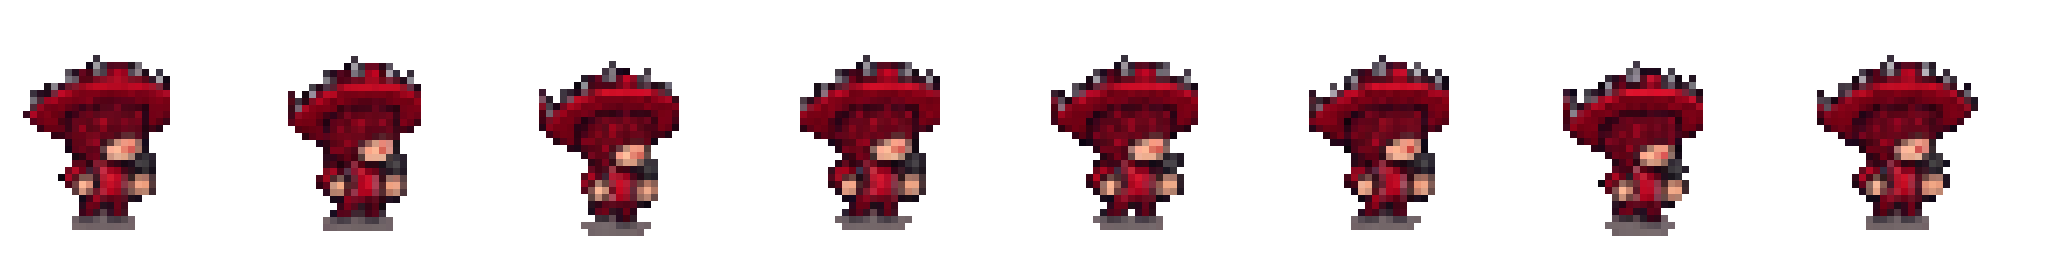
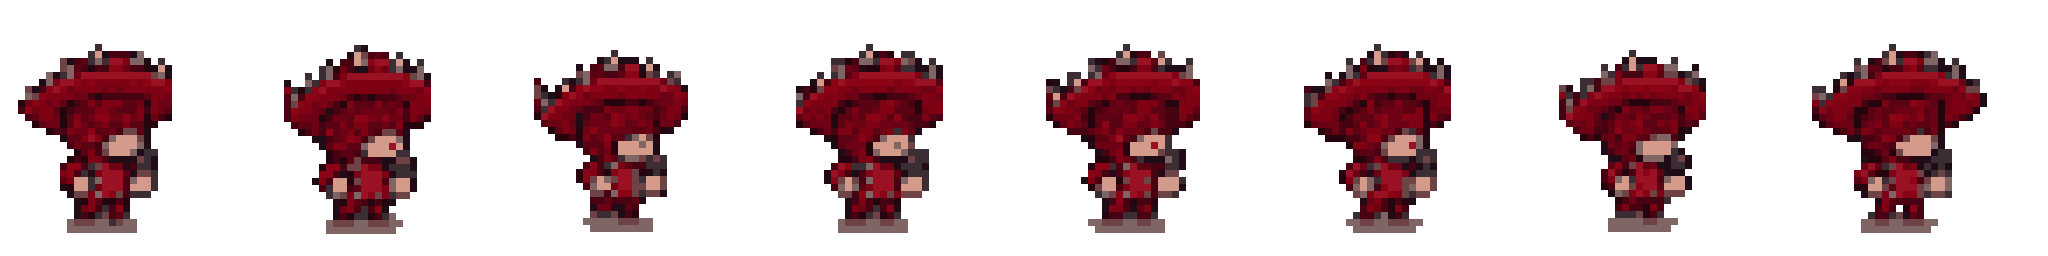
크림슨 디바 크기·도트 정리
Claude-Session: https://claude.ai/code/session_01CTycXSNtqEpKLb11niWLUo

diff --git a/tools/build_chars.py b/tools/build_chars.py
@@ -17,7 +17,7 @@ import build_sheets as bs
 
 REF_SIZE = 158  # 기본(blue) 캐릭터 idle의 덩치(면적 제곱근)
 # 실제 크기 비율: 기준(1.0) 대비 화면에 보이는 크기. 줄여도 도트 크기(DOT)는 그대로라서 그림 자체를 더 성긴 도트로 다시 찍는다
-SIZE = {"diva": 0.8, "dv2": 0.8, "chick": 0.38, "chicken": 0.5, "frog": 0.7, "shiba": 0.8, "labrador": 0.9, "pig": 0.9, "hippo": 0.8}
+SIZE = {"diva": 1.0, "dv2": 1.0, "chick": 0.38, "chicken": 0.5, "frog": 0.7, "shiba": 0.8, "labrador": 0.9, "pig": 0.9, "hippo": 0.8}
 DOT = 7  # 셀 안에서 도트 한 개의 크기(px). 파란티 등 기본 캐릭터의 도트 크기와 같다
 MOTIONS = {"idle": 4, "walk": 6, "run": 6, "attack": 6, "die": 6}  # 모션 → 프레임 수 (attack·die는 2줄 x 3칸)
 
@@ -110,6 +110,7 @@ def main(src: Path, out: Path):
             infos = []
             for f in frames:
                 try:
+                    if os.environ.get("FOOT"): raise SystemExit  # 그림자가 없거나 들쭉날쭉한 시트는 가장 아래 점을 발로 본다
                     infos.append(bs.shadow_info(f))
                 except SystemExit:  # 그림자가 없으면 발 위치로 대신함
                     al = f[..., 3] > 128
@@ -138,6 +139,9 @@ def main(src: Path, out: Path):
                     im = im.resize((max(1, round(im.width * sc)), max(1, round(im.height * sc))), Image.NEAREST)
                     sc_eff = sc
                 px, py = bs.ANCHOR[0] - round(cx * sc_eff), bs.ANCHOR[1] - round(by * sc_eff)
+                if py < 0 and os.environ.get("FOOT"):  # 팔을 번쩍 든 것처럼 키가 큰 프레임: 발이 잘리지 않게 이 프레임만 줄여 앵커에 맞춤
+                    k = (im.height + py) / im.height; nw = max(1, round(im.width * k)); im = im.resize((nw, im.height + py), Image.NEAREST)
+                    px, py = bs.ANCHOR[0] - round(cx * sc_eff * k), 0
                 px = min(max(px, 0), bs.CELL - im.width)  # 살짝 벗어난 건 옆으로 밀어 넣음 (쓰러진 자세 등)
                 py = max(py, 0)
                 cell = Image.new("RGBA", (bs.CELL, bs.CELL), (0, 0, 0, 0))

diff --git a/tools/pal_snap.py b/tools/pal_snap.py
@@ -1,0 +1,18 @@
+"""한 캐릭터의 모든 시트 색을 공통 팔레트(기본 16색)로 맞춰 번지고 깨진 색을 또렷한 도트로 정리한다.
+사용: python3 tools/pal_snap.py public/characters/diva [색 수]"""
+import sys
+from pathlib import Path
+import numpy as np
+from PIL import Image
+
+d = Path(sys.argv[1]); n = int(sys.argv[2]) if len(sys.argv) > 2 else 16
+files = sorted(d.glob("*.png"))
+imgs = {f: np.array(Image.open(f).convert("RGBA")) for f in files}
+px = np.concatenate([a[a[..., 3] > 0][:, :3] for a in imgs.values()])
+pal_img = Image.fromarray(px[np.random.default_rng(0).choice(len(px), min(len(px), 60000), replace=False)].reshape(-1, 1, 3).astype(np.uint8)).quantize(colors=n, method=Image.MEDIANCUT)
+pal = np.array(pal_img.getpalette()[: n * 3]).reshape(-1, 3).astype(int)
+for f, a in imgs.items():
+    m = a[..., 3] > 0; rgb = a[m][:, :3].astype(int)
+    idx = ((rgb[:, None, :] - pal[None, :, :]) ** 2).sum(axis=2).argmin(axis=1)
+    out = a.copy(); out[m, :3] = pal[idx]; Image.fromarray(out).save(f)
+print(d.name, len(files), "시트 →", n, "색")
